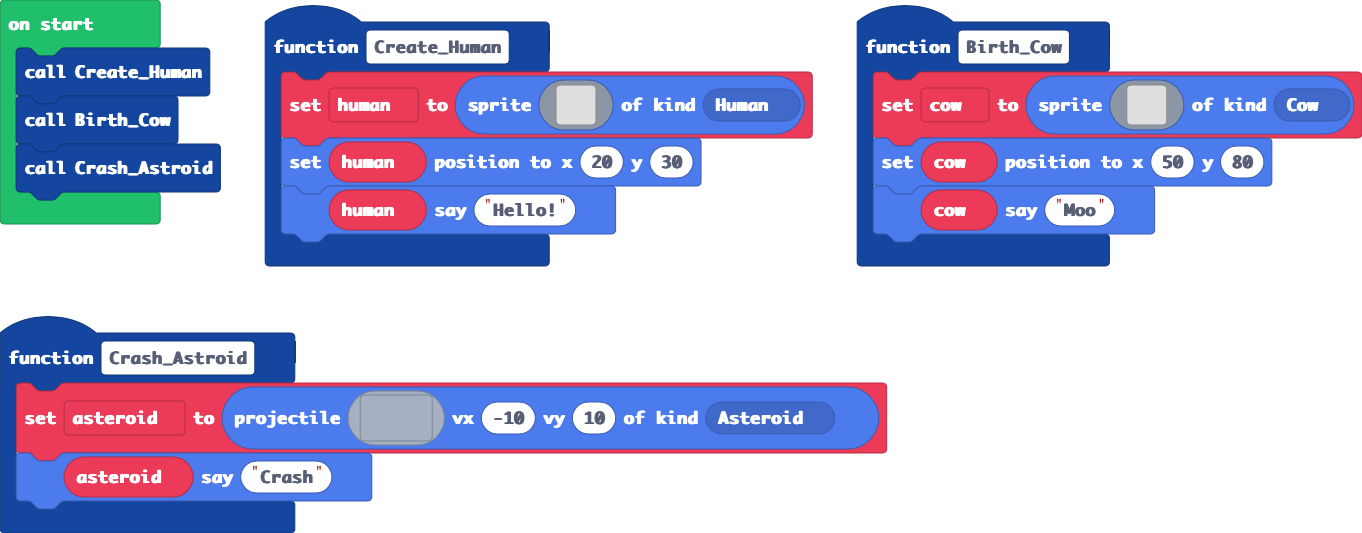
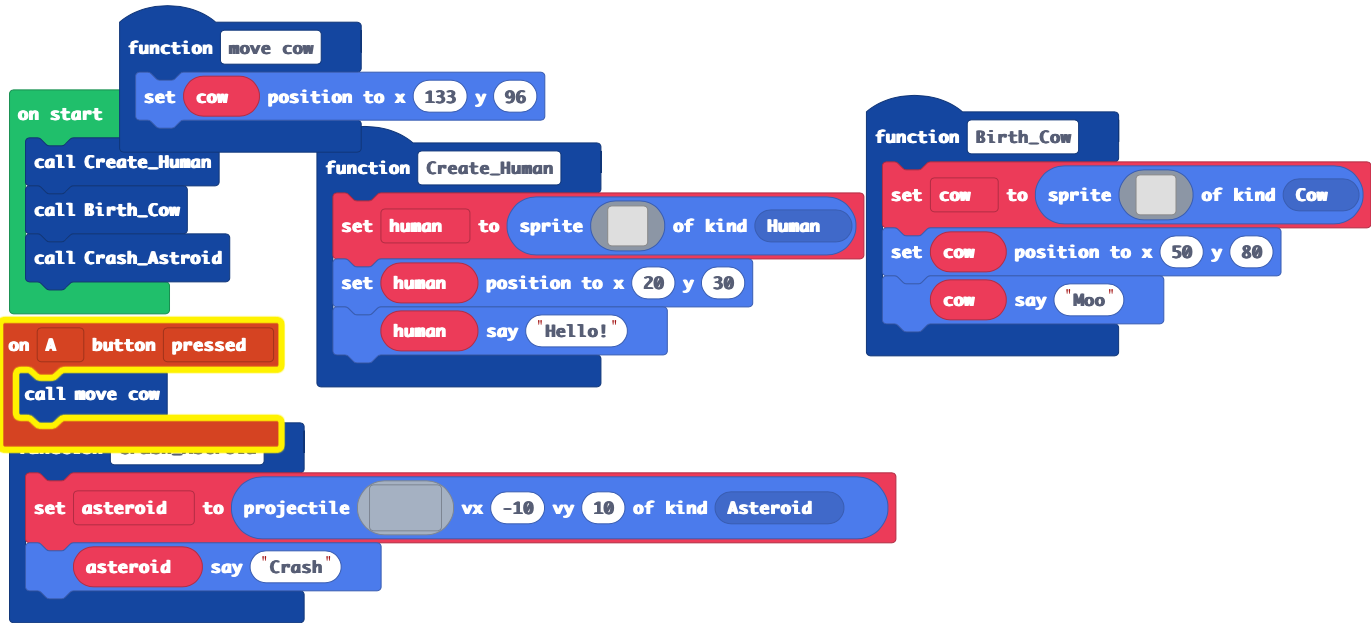
Update pxt.json, main.ts, main.blocks

diff --git a/main.ts b/main.ts
@@ -25,6 +25,12 @@ function Birth_Cow () {
     cow.setPosition(50, 80)
     cow.say("Moo")
 }
+function move_cow () {
+    cow.setPosition(133, 96)
+}
+controller.A.onEvent(ControllerButtonEvent.Pressed, function () {
+    move_cow()
+})
 function Crash_Astroid () {
     asteroid = sprites.createProjectile(sprites.space.spaceAsteroid0, -10, 10, SpriteKind.Asteroid)
     asteroid.say("Crash")
